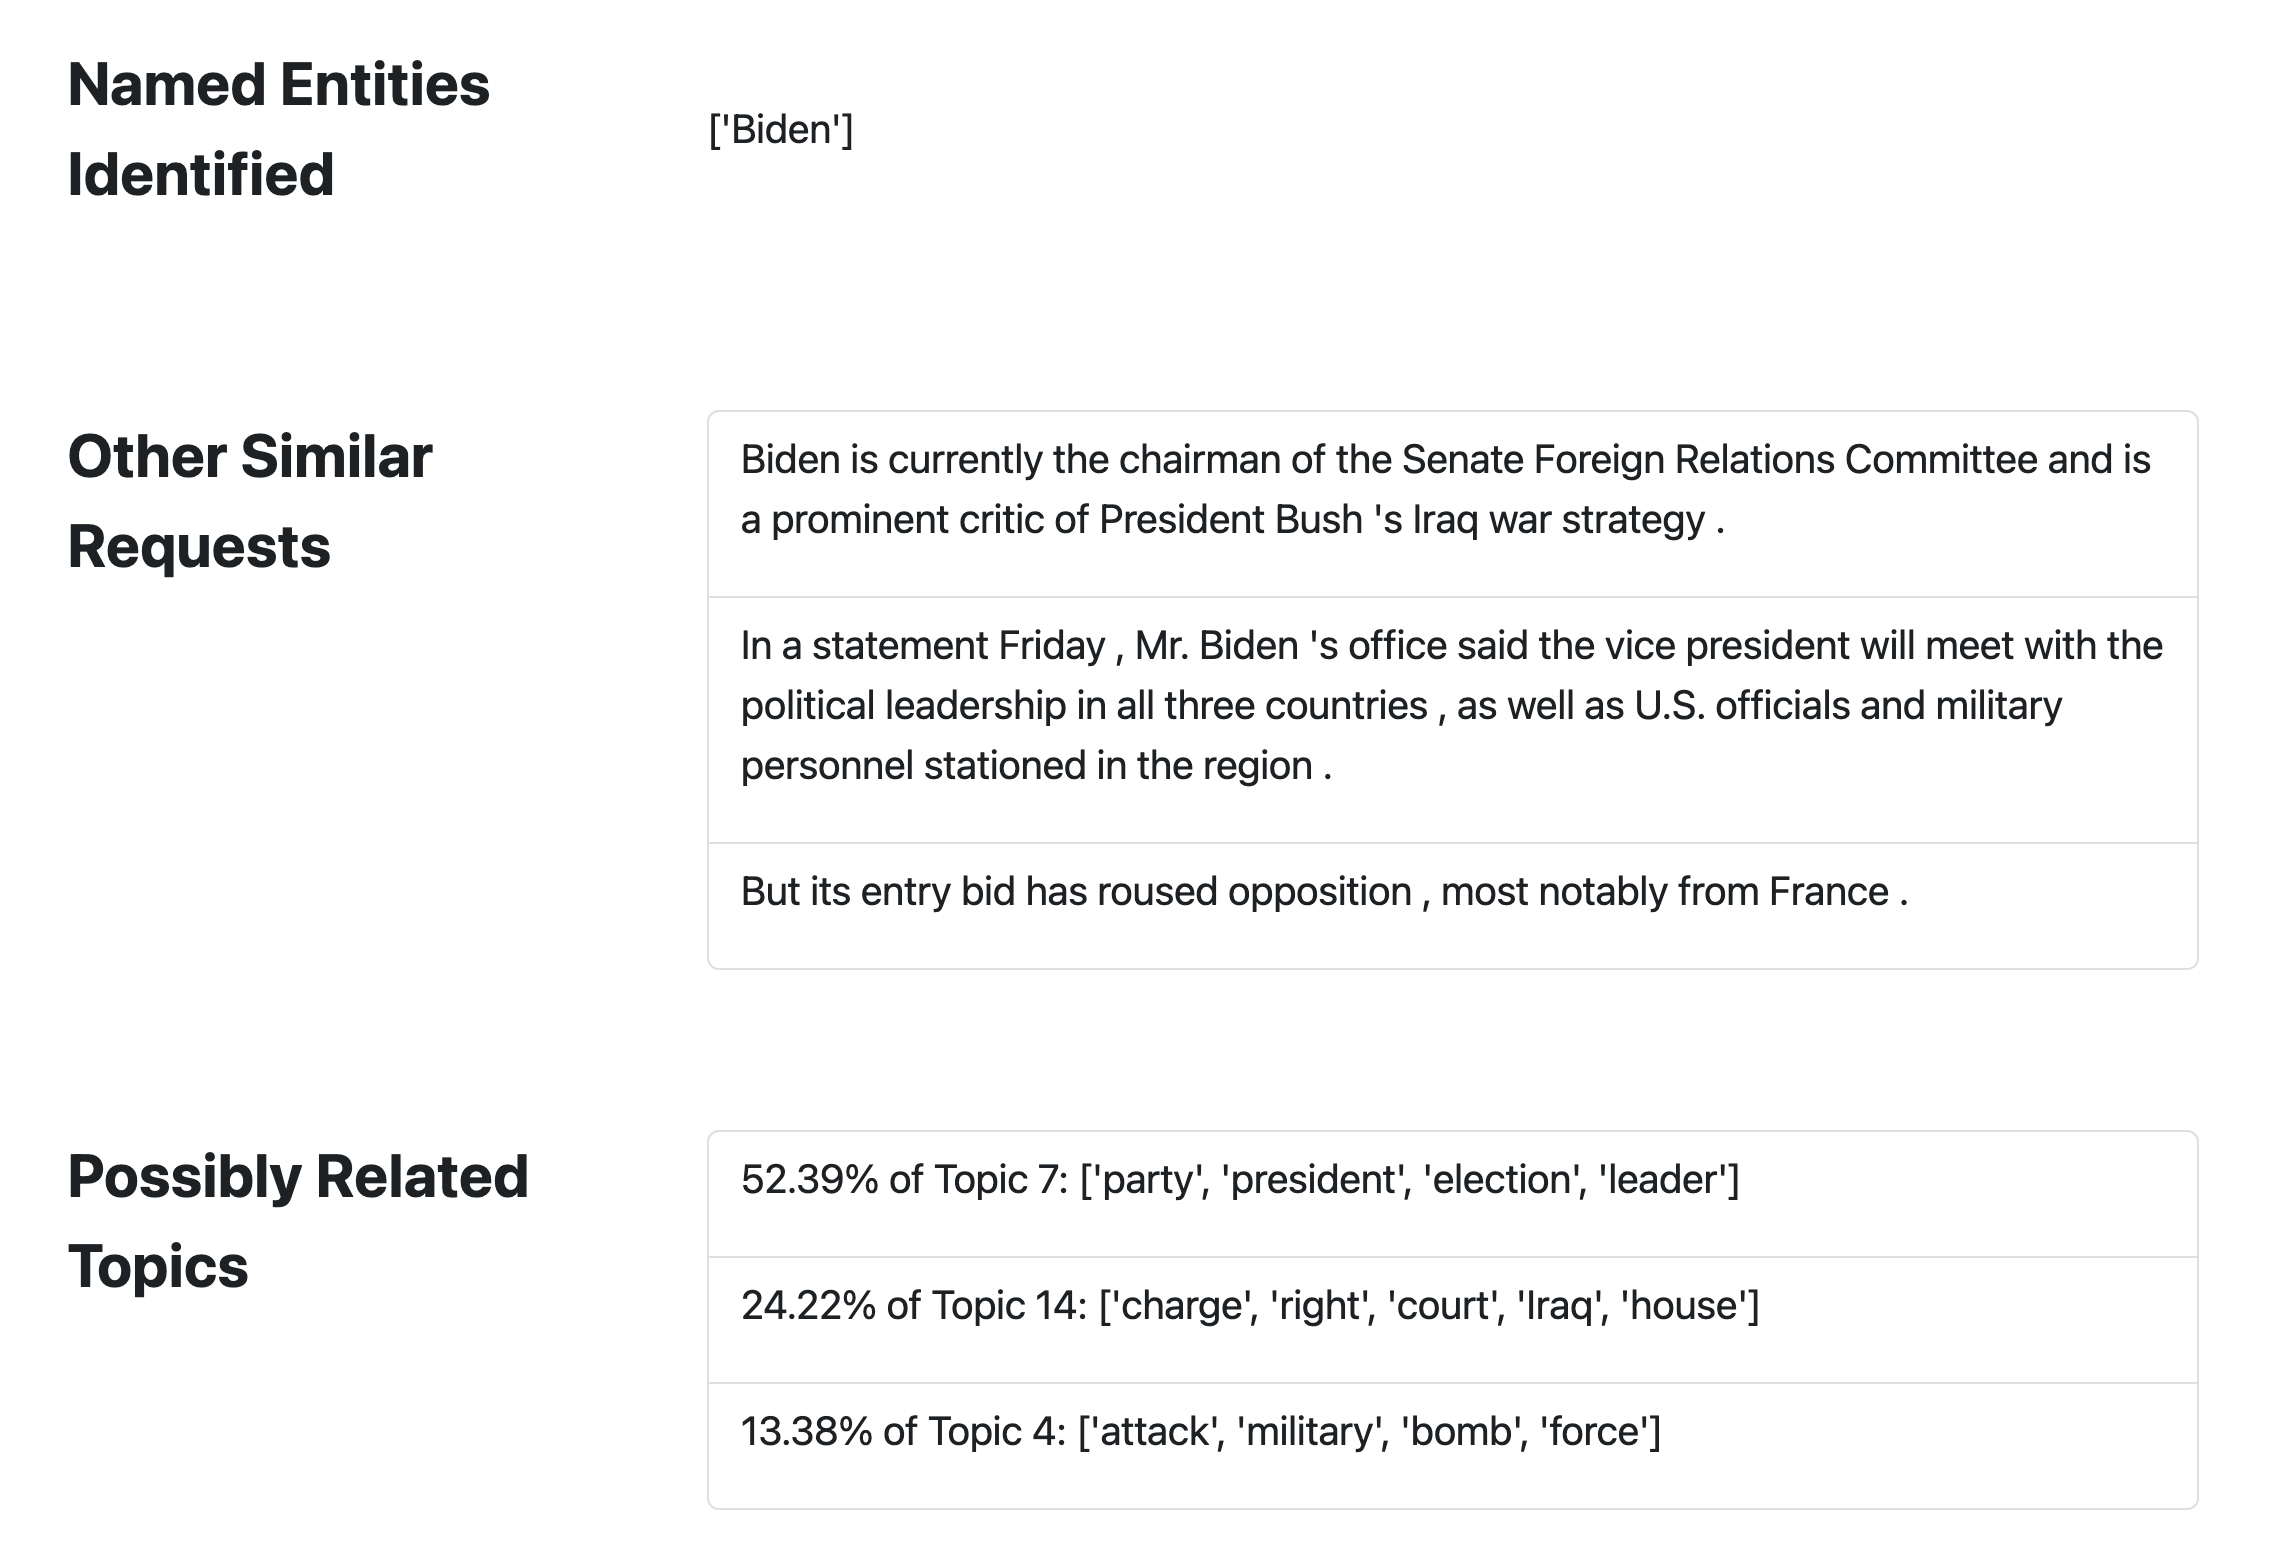
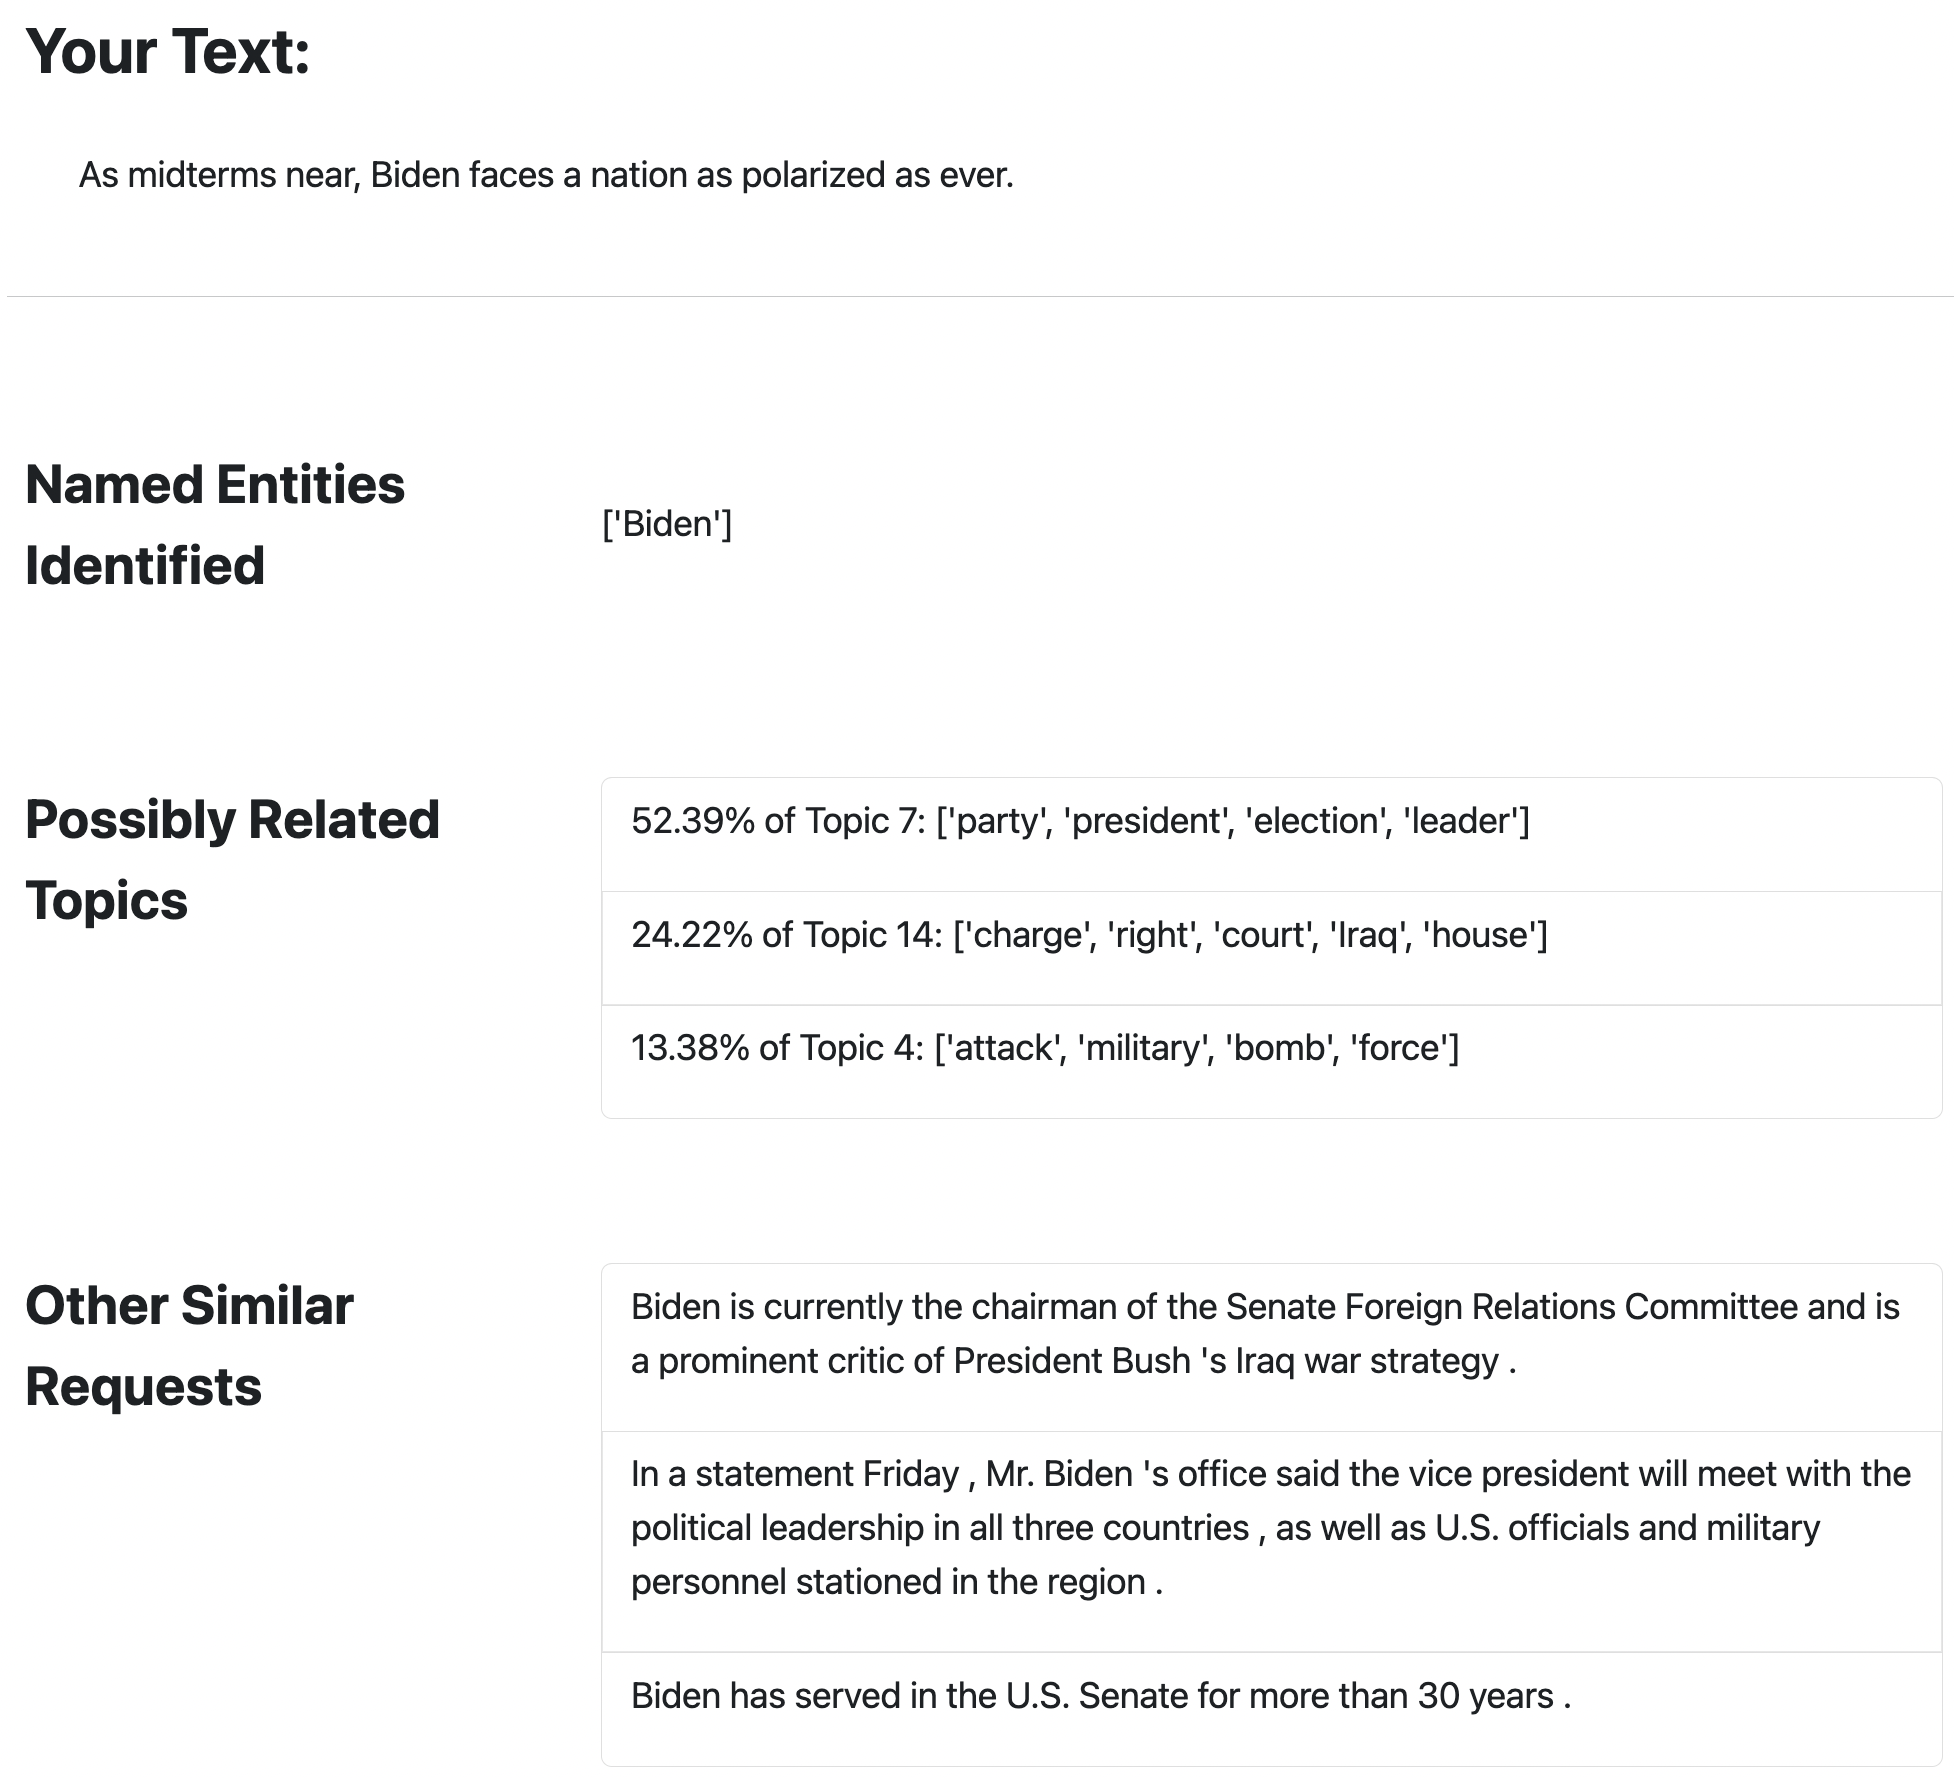
webpage updates according to teammates' suggestions

diff --git a/flask_app/templates/team.html b/flask_app/templates/team.html
@@ -7,30 +7,28 @@ Our Team
 {%endblock%}
 
 {%block content%}
-<div class='container mx-auto mt-5 col-md-10 mt-100'>
-
-
+<div class='mx-auto mt-5 col-md-10 mt-100'>
   <div class="row">
-    <div class="card col-md-8 mt-100">
-      <div class="card-content">
+    <div class="card col-sm">
         <div class="card-body">
+           <h3 class="card-title">Cody McCormack</h3>
+           <h6 class="card-subtitle mb-2 text-muted">Senior Product Analyst</h6>
           <div class="profile"> <img src="../static/cody_mccormack.png"> </div>
           <div class="profile-text">
             <p>Hey! I'm <a href="https://www.linkedin.com/in/codymccormack/">Cody McCormack</a>. I'm a data analyst and engineer, with experience in digital marketing, product, retail and finance.</p>
             <p>As a linguistics major, and rising math master's student at Johns Hopkins, I'm very interested in machine learning's applications to language data, and how ML models can be used to better parse the vast amount of text data available on
               the web. I plan to do my master's thesis on topological data analysis, and better understand how dimensionality impacts machine lerning algorithms.</p>
-            <p>
-              <samll class="text-muted">Outside of work, I enjoy hiking, running, reading, and spending time with my wife and dog in beautiful Ogden, Utah.</samll>
+            <p>Outside of work, I enjoy hiking, running, reading, and spending time with my wife and dog in beautiful Ogden, Utah.
             </p>
           </div>
         </div>
-      </div>
     </div>
-  </div>
-  <div class="row">
-    <div class="card col-md-8 mt-100">
-      <div class="card-content">
+ 
+
+    <div class="card col-sm">
         <div class="card-body">
+        <h3 class="card-title">Ying Hu</h3>
+           <h6 class="card-subtitle mb-2 text-muted">Researcher, Educator</h6>
           <div class="profile"> <img src="../static/ying_hu.png"> </div>
           <div class="profile-text">
             <p>Hello, my name is <a href="https://www.linkedin.com/in/ying-hu-math/">Ying Hu</a>. I'm a research mathematician in the area of geometric topology. I received my Ph.D. at Louisiana State University and spent three years in Canada as a research fellow at McGill University and Université du
@@ -38,29 +36,28 @@ Our Team
             <p>In addition to pure math research, I also work on applied projects with researchers in the engineering departments. I've recently developed a keen interest in machine learning and artificial intelligence, and I look forward to seeing
               what machines and humans together can achieve! </p>
             <p>
-              <samll class="text-muted">I grew up in Chengdu, China, a beautiful city with lots of delicious food and adorable pandas :)</samll>
+             I grew up in Chengdu, China, a beautiful city with lots of delicious food and adorable pandas :)
             </p>
           </div>
         </div>
-      </div>
     </div>
-  </div>
+ 
 
-  <div class="row">
-    <div class="card col-md-8 mt-100">
-      <div class="card-content">
+
+    <div class="card col-sm">
         <div class="card-body">
+            <h3 class="card-title">Cris Fortes</h3>
+            <h6 class="card-subtitle mb-2 text-muted">Former Executive Director, Strategic Sourcing</h6>
           <div class="profile"> <img src="../static/cris_fortes.png"> </div>
           <div class="profile-text">
             <p>My name is <a href="https://www.linkedin.com/in/crisfortes/">Cris Fortes</a> and I'm focused on artificial intelligence, machine learning and deep learning that accelerate business transformation. I see that as a natural evolution of my career as a transformative, results-driven and
               people-developing leader in strategic sourcing & procurement (Amgen, J&J, WPP) and marketing, sales, product management and general management (J&J, Yahoo!, DIRECTV, Siemens).</p>
             <p>I've worked, lived and studied in the U.S., Europe and Latin America and speak Portuguese, Spanish and German.</p>
             <p>
-              <samll class="text-muted">I call beautiful Southern California home.</samll>
+         I call beautiful Southern California home.
             </p>
           </div>
         </div>
-      </div>
     </div>
   </div>
 </div>

diff --git a/flask_app/templates/index.html b/flask_app/templates/index.html
@@ -11,15 +11,16 @@ GLG Match Maker
 <div class="row">
   <div class="col-md-6">
     <div class="home-page-text">
-      <p class="text-justify"><a href="https://glginsights.com/articles/glg-survey-most-c-suite-execs-expect-the-covid-19-recession-to-have-greater-short-term-less-long-term-impact-than-2008-recession/">GLG</a>'s business largely revolves around
+      <p>We are Ying, Cody and Cris, students of <a href="https://fourthbrain.ai/">FourthBrain</a>'s Machine Learning Engineer course, cohort 9 (August-December 2022) and this is our capstone project.</p>
+      <p><a href="https://glginsights.com/articles/glg-survey-most-c-suite-execs-expect-the-covid-19-recession-to-have-greater-short-term-less-long-term-impact-than-2008-recession/">GLG</a>'s business largely revolves around
         matching clients with topic experts so that they can meet by phone, video or in person.</p>
-      <p class="text-justify">To do that a client submits a request describing the topic(s) they seek to gain expertise on and GLG in turn searches their database of 1 million experts for the right match so that the meeting can be scheduled in short
+      <p>To do that a client submits a request describing the topic(s) they seek to gain expertise on and GLG in turn searches their database of 1 million experts for the right match so that the meeting can be scheduled in short
         order.</p>
       <p>Our web app uses natural language processing (NLP) to quickly retrieve the key infomation contained in each client request. These information can be further used by a recommendation model so that the matching process can be semi-automated.
       </p>
       <p>For an in-depth and technical look, we invite you to also visit our <a href="https://github.com/LaplaceCherub/glg-project">Github repository</a>.</p>
       <p>To test drive our web app, simply go to the <a href='/try'>Try it Out</a> tab and enter your own request for topic expertise.</p>
-
+      <p>Thanks for visiting!</p>
     </div>
 
   </div>

diff --git a/flask_app/templates/try.html b/flask_app/templates/try.html
@@ -52,6 +52,27 @@ Enter Text to Get Matched!
     <div class="row">
       <div class="col-md-3">
         <div class="model-title">
+            <p id="lda">Possibly Related Topics</p>
+        </div>
+      </div>
+      <div class="col-md-7">
+        <div>
+            <ul class="list-group">
+                {% for topic_num, topic_per in topics %}
+                <li class="list-group-item">
+                  <p class="text_result"> {{ topic_per }} of Topic {{ topic_num + 1 }}: {{topics_dict[topic_num]}} </p>
+                </li>
+                {% endfor %}
+            </ul>
+        </div>
+      </div>
+    </div>
+  </div>
+  
+<div class="container model-output">
+    <div class="row">
+      <div class="col-md-3">
+        <div class="model-title">
             <p id="knn">Other Similar Requests</p>
         </div>
       </div>
@@ -69,26 +90,7 @@ Enter Text to Get Matched!
     </div>
   </div>
 
-<div class="container model-output">
-    <div class="row">
-      <div class="col-md-3">
-        <div class="model-title">
-            <p id="lda">Possibly Related Topics</p>
-        </div>
-      </div>
-      <div class="col-md-7">
-        <div>
-            <ul class="list-group">
-                {% for topic_num, topic_per in topics %}
-                <li class="list-group-item">
-                  <p class="text_result"> {{ topic_per }} of Topic {{ topic_num + 1 }}: {{topics_dict[topic_num]}} </p>
-                </li>
-                {% endfor %}
-            </ul>
-        </div>
-      </div>
-    </div>
-  </div>
+
 
   
 

diff --git a/flask_app/templates/base.html b/flask_app/templates/base.html
@@ -60,9 +60,4 @@
   <!-- Copyright -->
 </footer>
 
-
-<script src="https://code.jquery.com/jquery-3.4.1.slim.min.js" integrity="sha384-J6qa4849blE2+poT4WnyKhv5vZF5SrPo0iEjwBvKU7imGFAV0wwj1yYfoRSJoZ+n" crossorigin="anonymous"></script>
-<script src="https://cdn.jsdelivr.net/npm/popper.js@1.16.0/dist/umd/popper.min.js" integrity="sha384-Q6E9RHvbIyZFJoft+2mJbHaEWldlvI9IOYy5n3zV9zzTtmI3UksdQRVvoxMfooAo" crossorigin="anonymous"></script>
-<script src="https://stackpath.bootstrapcdn.com/bootstrap/4.4.1/js/bootstrap.min.js" integrity="sha384-wfSDF2E50Y2D1uUdj0O3uMBJnjuUD4Ih7YwaYd1iqfktj0Uod8GCExl3Og8ifwB6" crossorigin="anonymous"></script>
-
 </html>

diff --git a/flask_app/static/styles.css b/flask_app/static/styles.css
@@ -79,21 +79,18 @@ a:link {
 .profile img {
     width: 150px;
     height: 150px;
-    border-radius: 50%
+    border-radius: 50%;
+    margin-top: 20px;
 }
 
 .profile-text {
     margin: 50px auto 10px 10px;
 }
+
 .card {
     border-radius: 15px;
     margin-left: 30px;
     margin-right: 30px;
-}
-
-.card-body {
-    position: relative;
-    bottom: 40px;
 }
 
 .header {
